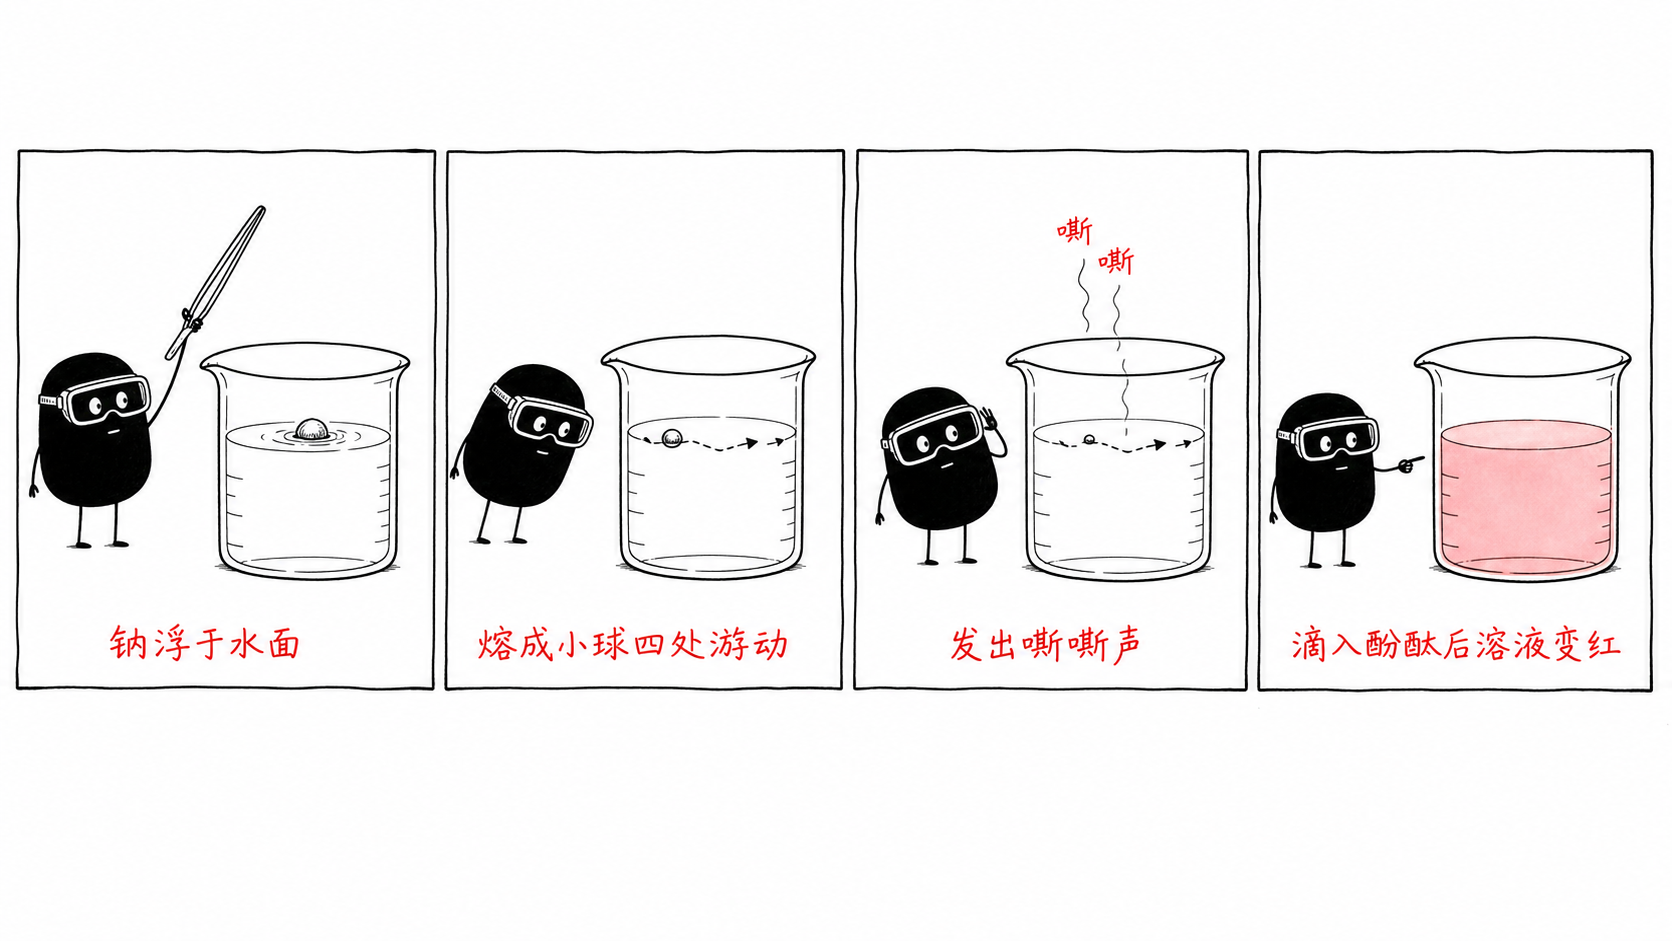
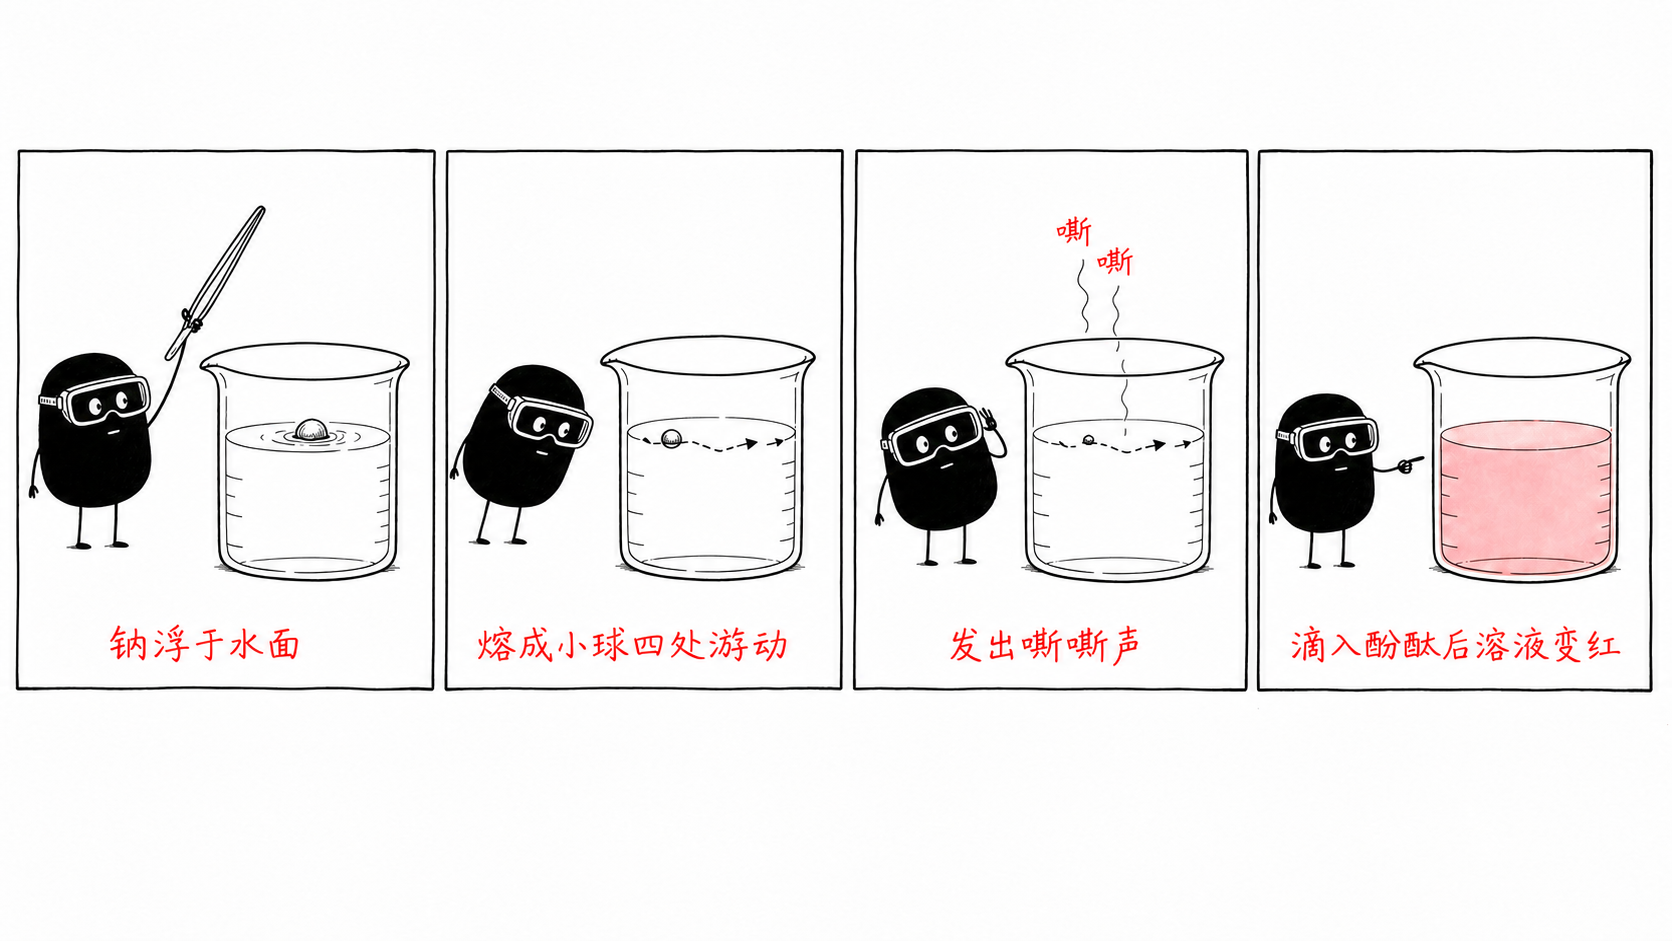
审稿修订：图3v4补边框/图4v7十六分子密疏对比/图5v4改真实反应2SO2+O2=2SO3并强化面对面争辩

diff --git a/prompts/样图提示词档案.md b/prompts/样图提示词档案.md
@@ -15,15 +15,15 @@
 
 ### 图3 钠与水反应四格漫画
 
-生成一张独立的 16:9 横版中文高中化学教学插图。【风格】通用风格，标注只用红色。【角色】小黑，道具：护目镜（每格佩戴）；四格中体型大小保持一致，任何一格都不接触烧杯。【主题】钠与水反应的实验现象。【结构】四格分镜，从左到右：第1格，定格于钠已浮在水面的瞬间——银色小钠块浮于烧杯水面上，小黑手持实验室长镊子（细长直头）刚从杯口上方移开，标注"钠浮于水面"；第2格，钠熔成闪亮小球沿水面游动，在水面线上画虚线曲折轨迹并带小箭头，小黑伸头凑近注视但与烧杯保持明显距离，标注"熔成小球四处游动"；第3格，水面上的小球明显比第2格变小（反应消耗），旁有"嘶嘶"声符，小黑侧头贴近烧杯、一只手拢在头侧作倾听状，标注"发出嘶嘶声"；第4格，小黑站在烧杯旁抬手指向烧杯（无滴加动作），杯内溶液变粉红，标注"滴入酚酞后溶液变红"。【标注】四格标注全部用红色、字号一致、底部对齐；只允许：钠浮于水面／熔成小球四处游动／发出嘶嘶声／滴入酚酞后溶液变红／嘶嘶。【约束】化学准确性最高优先；每格中钠都浮于水面绝不下沉；第3格小球必须明显小于第2格；镊子须为实验室规范镊子；任何一格不出现火焰；留白至少 30%。
+生成一张独立的 16:9 横版中文高中化学教学插图。【风格】通用风格，标注只用红色。【角色】小黑，道具：护目镜（每格佩戴）；四格中体型大小保持一致，任何一格都不接触烧杯。【主题】钠与水反应的实验现象。【结构】四格分镜，从左到右：第1格，定格于钠已浮在水面的瞬间——银色小钠块浮于烧杯水面上，小黑手持实验室长镊子（细长直头）刚从杯口上方移开，标注"钠浮于水面"；第2格，钠熔成闪亮小球沿水面游动，在水面线上画虚线曲折轨迹并带小箭头，小黑伸头凑近注视但与烧杯保持明显距离，标注"熔成小球四处游动"；第3格，水面上的小球明显比第2格变小（反应消耗），旁有"嘶嘶"声符，小黑侧头贴近烧杯、一只手拢在头侧作倾听状，标注"发出嘶嘶声"；第4格，小黑站在烧杯旁抬手指向烧杯（无滴加动作），杯内溶液变粉红，标注"滴入酚酞后溶液变红"。【标注】四格标注全部用红色、字号一致、底部对齐；只允许：钠浮于水面／熔成小球四处游动／发出嘶嘶声／滴入酚酞后溶液变红／嘶嘶。【约束】化学准确性最高优先；每格中钠都浮于水面绝不下沉；第3格小球必须明显小于第2格；镊子须为实验室规范镊子；任何一格不出现火焰；四格边框四边完整闭合；留白至少 30%。
 
 ### 图4 压强对有效碰撞影响的微观示意图
 
-生成一张独立的 16:9 横版中文教学微粒示意图。【风格】通用风格，标注用红/橙/蓝三色。【角色】小黑自然站在右筒活塞板上（以自重下压）。【主题】增大压强（压缩气体）如何加快反应速率（碰撞理论）。【结构】并排画两只等宽等高的直立圆筒，筒内各有一块可移动的水平活塞板——任何位置不画活塞杆、不画把手：左筒活塞位置较高、下方气体空间较大，气体空间内恰好 12 个小圆代表分子——恰好 6 个实心黑圆（活化分子）、6 个空心圆，彼此松散分布，画出恰好 1 对正在碰撞并带橙色火花，且相撞的必须是两个实心分子；右筒活塞下压至约一半高度、旁画一支粗橙色向下箭头并标"压缩"，变小的气体空间内仍是恰好 12 个分子（6 实心＋6 空心），彼此紧密拥挤、间距明显小于左筒，画出恰好 2 对碰撞并带橙色火花，每一对都是两个实心分子相撞。左筒下方蓝色标"压缩前"，右筒下方蓝色标"压缩后"，左筒旁小字"实心＝活化分子"，两筒之间小字"分子总数不变"，画面下缘红色标注"增大压强，单位体积内活化分子数增多，有效碰撞增多，反应速率加快"。【标注】只允许上述文字。【约束】有效碰撞只发生在实心（活化）分子之间；两筒分子总数必须都恰好为 12（6 实心＋6 空心）、总数不变，只是右筒体积变小且明显拥挤；左 1 次碰撞、右 2 次碰撞；不画活塞杆与把手。
+生成一张独立的 16:9 横版中文教学微粒示意图。【风格】通用风格，标注用红/橙/蓝三色。【角色】小黑自然站在右筒活塞板上（以自重下压）。【主题】增大压强（压缩气体）如何加快反应速率（碰撞理论）。【结构】并排画两只等宽等高的直立圆筒，筒内各有一块可移动的水平活塞板——任何位置不画活塞杆、不画把手：左筒活塞位置较高、下方气体空间较大，气体空间内恰好 16 个小圆代表分子——恰好 8 个实心黑圆（活化分子）、8 个空心圆，在整个空间内随机松散散布，画出恰好 1 对正在碰撞并带橙色火花，且相撞的必须是两个实心分子；右筒活塞下压至约一半高度、旁画一支粗橙色向下箭头并标"压缩"，变小的气体空间内仍是恰好 16 个分子（8 实心＋8 空心），在整个缩小空间内均匀随机散布、间距明显小于左筒——但绝不挤成一团、不排成整齐行列，画出恰好 2 对碰撞并带橙色火花，每一对都是两个实心分子相撞。左筒下方蓝色标"压缩前"，右筒下方蓝色标"压缩后"，左筒旁小字"实心＝活化分子"，两筒之间小字"分子总数不变"，画面下缘红色标注"增大压强，单位体积内活化分子数增多，有效碰撞增多，反应速率加快"。【标注】只允许上述文字。【约束】有效碰撞只发生在实心（活化）分子之间；两筒分子总数必须都恰好为 16（8 实心＋8 空心）；右筒为更密的均匀随机散布而非聚团或成排；左 1 次碰撞、右 2 次碰撞；不画活塞杆与把手。
 
 ### 图5 "平衡后反应是否停止"迷思概念漫画
 
-生成一张独立的 16:9 横版中文高中化学教学插图。【风格】通用风格，仅两处对话气泡、两个箭头标签与底部提问有文字。【角色】两个小黑分立两侧，以不同道具区分：左侧戴护目镜、右侧戴小帽。【主题】可逆反应达到平衡后反应是否停止的概念辨析。【结构】中央画一只带塞的密闭容器，容器内用两类微粒表现正在发生的双向反应：单个空心圆（反应物分子）与两圆相连的哑铃形分子（生成物分子），两类微粒在容器内均散布若干；容器中部上下排列两个转化事件——上行：两个单圆＋向右箭头（标"正反应"）＋一个双圆分子；下行：一个双圆分子＋向左箭头（标"逆反应"）＋两个单圆（双圆在箭尾一侧、两个单圆在箭头所指一侧）。两支箭头长度、粗细完全相同。左侧角色气泡"达到平衡后反应就停止了"，右侧角色气泡"正逆反应仍在进行，只是速率相等"，画面下缘橙色手写"哪种说法对？"。【标注】只允许上述文字。【约束】容器内须同时可见两类微粒与两个方向的转化事件；逆反应必须是拆分方向；两支箭头完全等长等粗；留白充分。
+生成一张独立的 16:9 横版中文高中化学教学插图。【风格】通用风格，仅两处对话气泡、两个箭头标签与底部提问有文字（另允许微粒圆内的元素字母）。【角色】两个小黑分立容器两侧并明显面向对方、作面对面争辩姿态：左侧护目镜推至头顶（不遮眼）、张开双臂辩解并前倾；右侧戴小帽、抬手指向对方并前倾。【主题】以真实反应 2SO₂＋O₂⇌2SO₃ 辨析"可逆反应达到平衡后反应是否停止"。【微粒画法】SO₂＝一个标 S 的中圆两侧各连一个标 O 的小圆（弯折形）；O₂＝两个标 O 的小圆相连；SO₃＝一个标 S 的中圆周围连三个标 O 的小圆。【结构】中央画一只带塞的密闭容器，容器内三种微粒共存：恰好 2 个 SO₂、1 个 O₂、2 个 SO₃ 散布其中；容器中部画两支长度、粗细完全相同的水平箭头，上支向右标"正反应"、下支向左标"逆反应"。左侧角色气泡"达到平衡后反应就停止了"，右侧角色气泡"正逆反应仍在进行，只是速率相等"，画面下缘橙色手写"哪种说法对？"。【标注】只允许上述文字与圆内字母 S／O。【约束】容器内微粒计数必须恰好 2 SO₂＋1 O₂＋2 SO₃；每个圆内字母正确；两支箭头完全等长等粗；两个角色必须面对面、有对话争辩感；留白充分。
 
 ### 图6 "海洋化学资源的综合利用"单元系列（12格通用+逐格）
 
